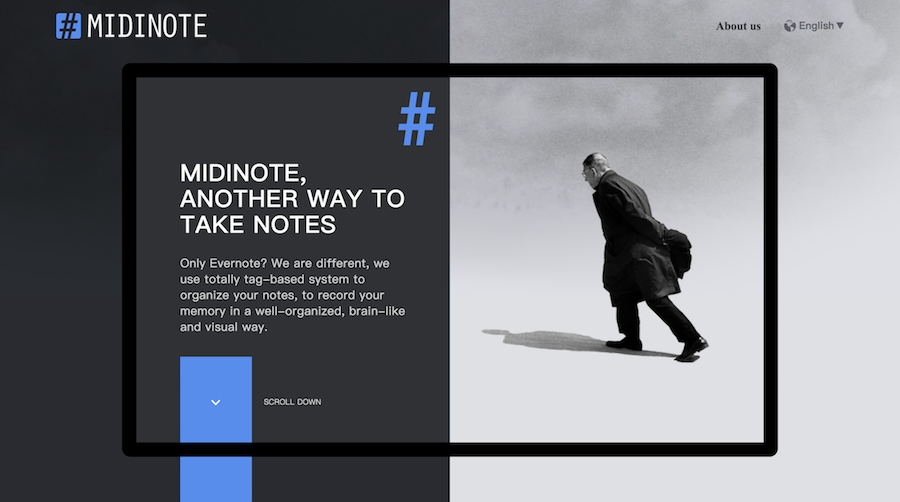
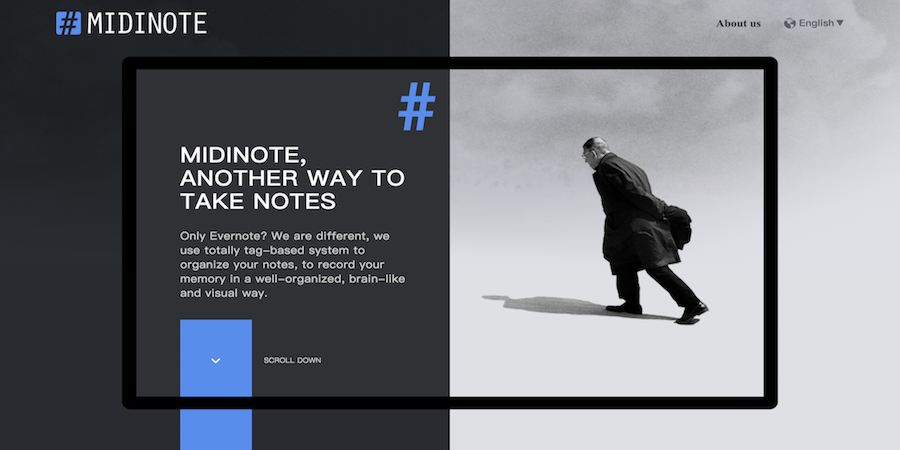
fixed video problem, cut image size

diff --git a/model/Box.js b/model/Box.js
@@ -1,6 +1,8 @@
 //@flow
 /*
  * the box to show pic/video of my product
+ * for Youtube
+ *<iframe width="560" height="315" src="https://www.youtube.com/embed/jBJRAwwcjZY" frameborder="0" allow="accelerometer; autoplay; encrypted-media; gyroscope; picture-in-picture" allowfullscreen></iframe>
  */
 import THREE		from '../three.js'
 import * as d3		from 'd3'
@@ -11,6 +13,7 @@ log.setLevel('debug')
 export default class Box {
 	group		: any
 	isOpened		: boolean
+	delayLoad		: Function
 
 	constructor(
 		imageURLs		: Array<any>,
@@ -23,21 +26,69 @@ export default class Box {
 		this.group.visible		= false
 		//hide
 		this.group.scale.set(0, 0, 0)
+		let domElement
 		for(let i = 0; i < imageURLs.length; i++){
 			const url		= imageURLs[i]
-			const image		= document.createElement('img')
-			d3.select(image)
-				.classed('box-side', true)
-				.style('width', width + 'px')
-				.style('height', height + 'px')
-				.style('background-color', '#000')
-				.attr('src', url)
-				.attr('draggable', 'false')
-				.on('click', () => {
-					onClick && onClick(i)
-				})
-			log.debug('create image element:', image)
-			const object		= new THREE.CSS3DObject(image)
+			if(/^https?:\/\/www.youtube.com.*$/.test(url)){
+				log.info('mount a video')
+				domElement = document.createElement( 'div' );
+				d3.select(domElement)
+					.classed('box-side', true)
+					.style('width', width + 'px')
+					.style('height', height + 'px')
+					.style('background-color', '#000')
+					.attr('draggable', 'false')
+					.on('click', () => {
+						onClick && onClick(i)
+					})
+//				var iframe = document.createElement( 'iframe' );
+//				iframe.style.width = width + 'px';
+//				iframe.style.height = height	+ 'px';
+//				iframe.style.border = '0px';
+//				iframe.src = url
+//				domElement.appendChild( iframe );
+				this.delayLoad		= () => {
+					domElement.innerHTML		= `<iframe width="${width}px" height="${height}px" src="${url}" frameborder="0" allow="accelerometer; autoplay; encrypted-media; gyroscope; picture-in-picture" allowfullscreen></iframe>`
+				}
+			}else if(/^https?:\/\/player.youku.com.*$/.test(url)){
+				log.info('mount a video')
+				domElement = document.createElement( 'div' );
+				d3.select(domElement)
+					.classed('box-side', true)
+					.style('width', width + 'px')
+					.style('height', height + 'px')
+					.style('background-color', '#000')
+					.attr('draggable', 'false')
+					.on('click', () => {
+						onClick && onClick(i)
+					})
+//				var iframe = document.createElement( 'iframe' );
+//				iframe.style.width = width + 'px';
+//				iframe.style.height = height	+ 'px';
+//				iframe.style.border = '0px';
+//				iframe.src = url
+//				domElement.appendChild( iframe );
+				this.delayLoad		= () => {
+					//youku need a delay
+						setTimeout(() => {
+						domElement.innerHTML		= `<iframe height=${height} width=${width} src='${url}' frameborder=0 'allowfullscreen'></iframe>`
+					}, 2000)
+				}
+			}else{
+				domElement		= document.createElement('img')
+				d3.select(domElement)
+					.classed('box-side', true)
+					.style('width', width + 'px')
+					.style('height', height + 'px')
+					.style('background-color', '#000')
+					.attr('src', url)
+					.attr('draggable', 'false')
+					.on('click', () => {
+						onClick && onClick(i)
+					})
+				log.debug('create image element:', domElement)
+			}
+			const object		= new THREE.CSS3DObject(domElement)
 			let x, y, z, ry
 			switch(i){
 				case 0:{
@@ -100,13 +151,15 @@ export default class Box {
 				.ease(d3.easeElastic)
 				.tween('explodeBox', tween())
 				.on('end', () => {
+					log.info('explode box over, load video')
+					this.delayLoad()
 				})
 		}
 	}
 
 	autoRotate(){
 		if(this.isOpened){
-			this.group.rotation.y		+= 0.01
+			this.group.rotation.y		-= 0.01
 		}
 	}
 

diff --git a/pages/index.js b/pages/index.js
@@ -24,6 +24,7 @@ log.info('version 0.1')
 const isAnimated		= true
 const isSlowDown		= false
 const isHelperShown		= false
+let isUpdating		= true
 const colors		= d3.scaleOrdinal(d3.schemeCategory10)
 
 const sectors		= [
@@ -799,10 +800,13 @@ class Index extends React.Component<Props,State>{
 							.duration(1000)
 							.tween('move', tween())
 							.on('end', () => {
+								log.info('transition into box finished, set isUpdating to false')
+								isUpdating		= false
 								d3.select('.close-icon')
 									.style('opacity', '1')
 									.on('click', () => {
-										log.info('quit box show')
+										log.info('quit box show, set isUpdating to true')
+										isUpdating		= true
 										function tween(){
 											return function(){
 												const scale		= d3.interpolateNumber(1.6, 1)
@@ -863,6 +867,7 @@ class Index extends React.Component<Props,State>{
 					let isRatating		= false
 					function handleNext(direction : 'left'|'right'){
 						//{{{
+						isUpdating		= true
 						if(isRatating){
 							log.warn('is ratating, cancel')
 						}else{
@@ -881,6 +886,10 @@ class Index extends React.Component<Props,State>{
 							d3.transition()
 								.duration(1000)
 								.tween('rotating', tween())
+								.on('end', () => {
+									log.info('switch to next image, set isUpdating false')
+									isUpdating		= false
+								})
 							isRatating		= false
 						}
 						//}}}
@@ -894,7 +903,10 @@ class Index extends React.Component<Props,State>{
 							'/static/demo1.png',
 							'/static/demo2.png',
 							'/static/demo3.png',
-							'/static/demo4.png'
+							thisRef.state.language === 'en' ? 
+								'https://www.youtube.com/embed/jBJRAwwcjZY'
+								:
+								'http://player.youku.com/embed/XNDIyMjYxNTMzNg==',
 						],
 						boxWidth,
 						boxHeight,
@@ -1126,12 +1138,22 @@ class Index extends React.Component<Props,State>{
 		}
 		function animate() {
 			//slow down
-			if(isSlowDown){
-				setTimeout(() => {
+			if(isUpdating){
+				if(isSlowDown){
+					setTimeout(() => {
+						requestAnimationFrame( animate );
+					}, 1000)
+				}else{
 					requestAnimationFrame( animate );
-				}, 1000)
+				}
 			}else{
-				requestAnimationFrame( animate );
+				/*
+				 * jump update
+				 */
+				setTimeout(() => {
+					log.debug('jump animate')
+					animate()
+				}, 500)
 			}
 			update();
 		}
@@ -1277,9 +1299,8 @@ class Index extends React.Component<Props,State>{
 											 src='/static/me.png'
 											 />
 									</div>
-									<div id='container' >
-										<div id='containerDOM' />
-									</div>
+									<div id='container' />
+									<div id='containerDOM' />
 									<div className='nav' >
 										<div className='logo' >
 											<span>Dadior</span>
